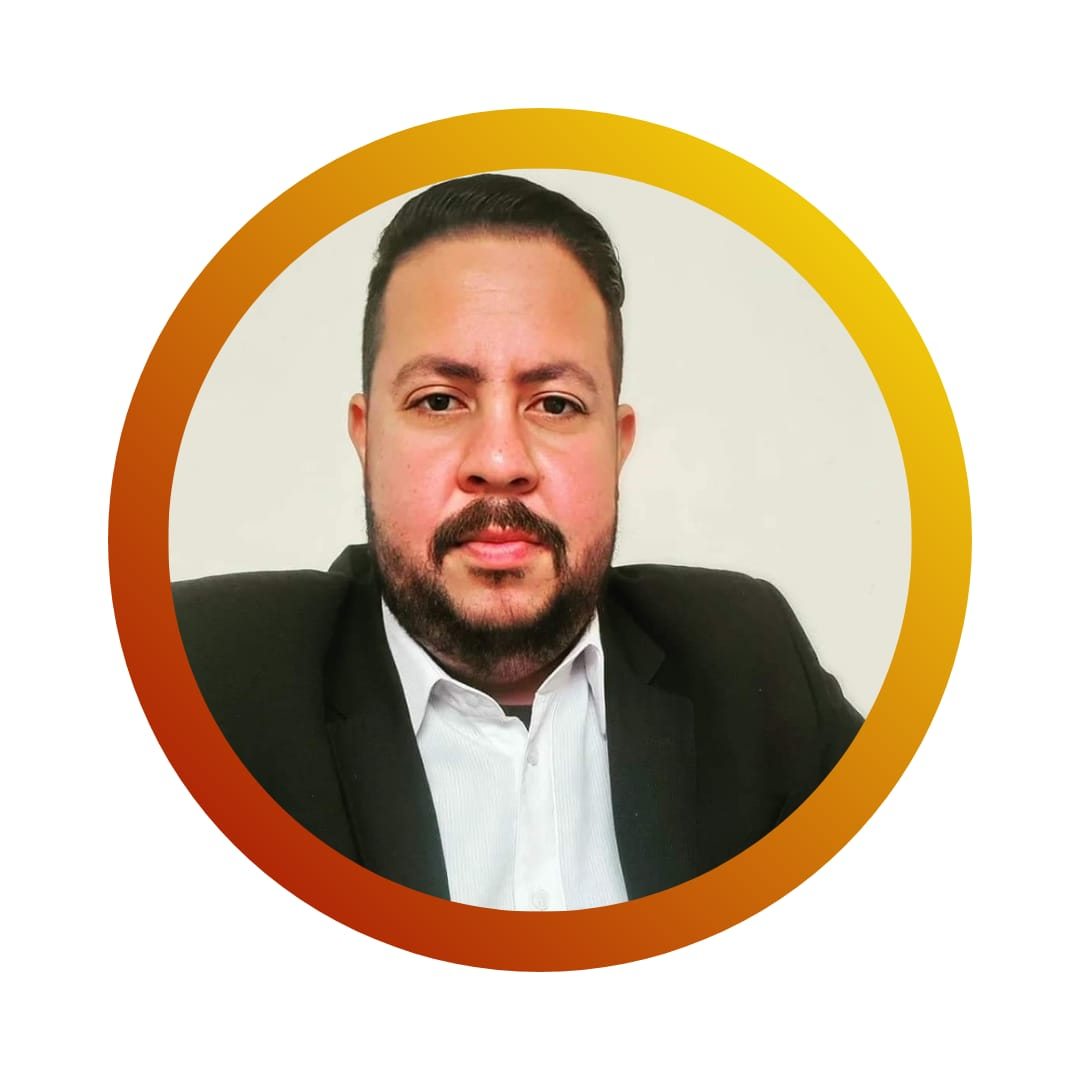
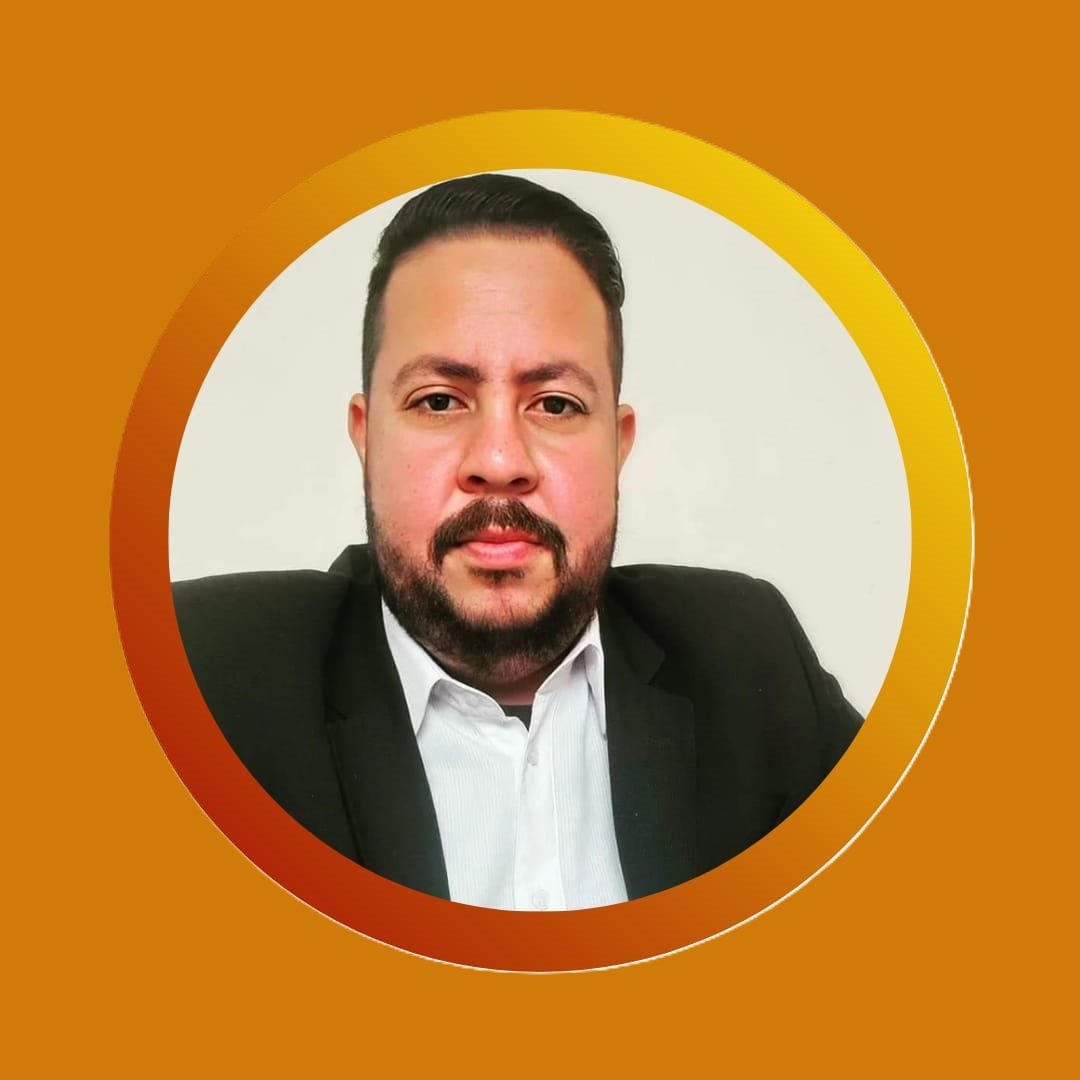
atualização

diff --git a/index.html b/index.html
@@ -22,7 +22,7 @@
     <header id="inicio-pg1"></header>
     <main id="meio-pg1">
         <section id="inicio">
-            <img src="imagem-bruno-alves-perfil.jpg" alt="Foto de perfil" id="img-perfil">
+            <img src="imagem-bruno-alves-perfil-edit.png" alt="Foto de perfil" id="img-perfil">
         </section>
         <section id="meio"></section>        
     </main>

diff --git a/style.css b/style.css
@@ -23,14 +23,14 @@
     color:white;
     display: grid;
     place-items: center;    
+    margin: 10px;  
 }
 #img-perfil
 {
     border-radius: 50%;
     width: 250px;
     height: 250px;
-    box-shadow: 10px 10px 35px var(--cinza4);
-    margin: 10px;    
+    box-shadow: 10px 10px 35px var(--cinza4);     
 }
 #meio
 {
